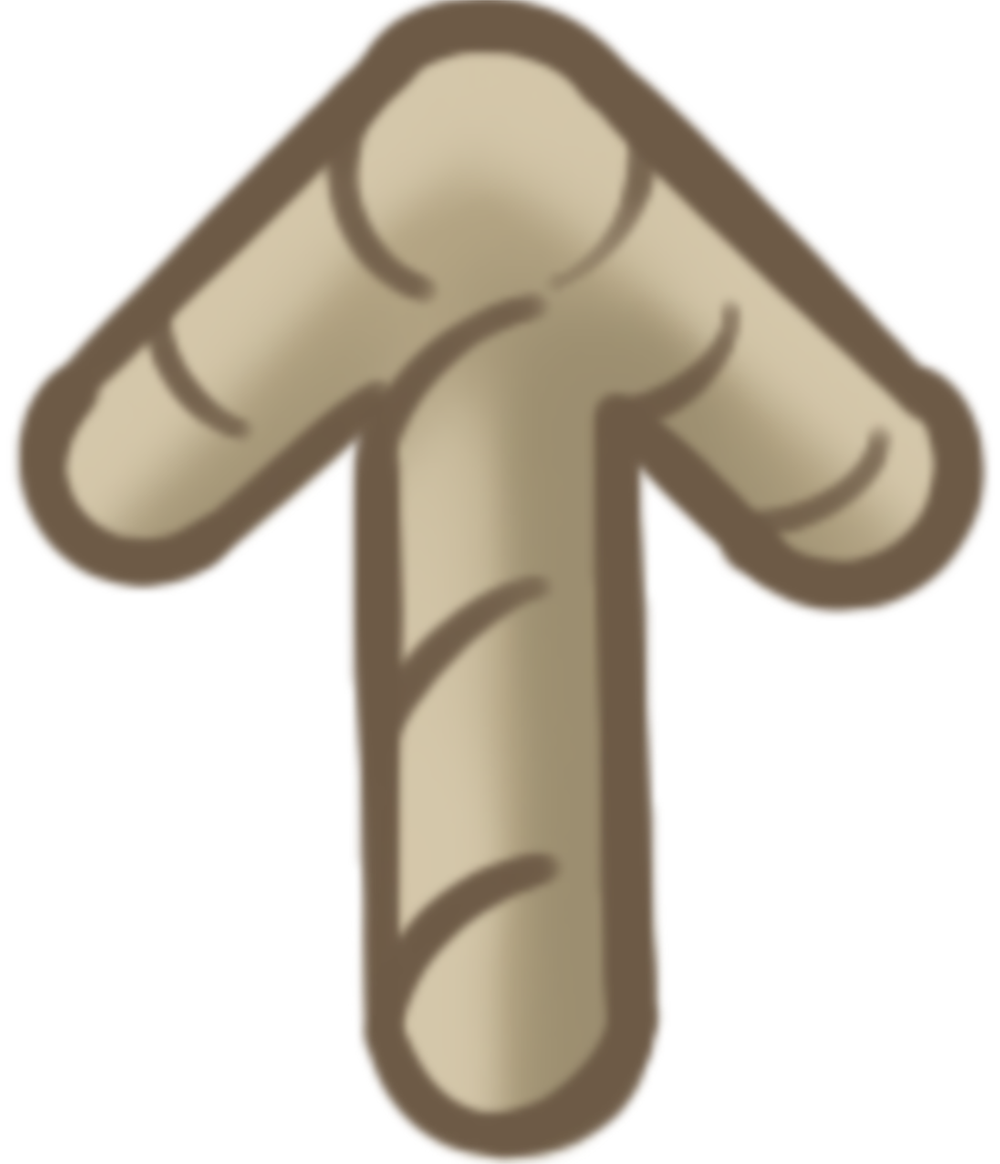
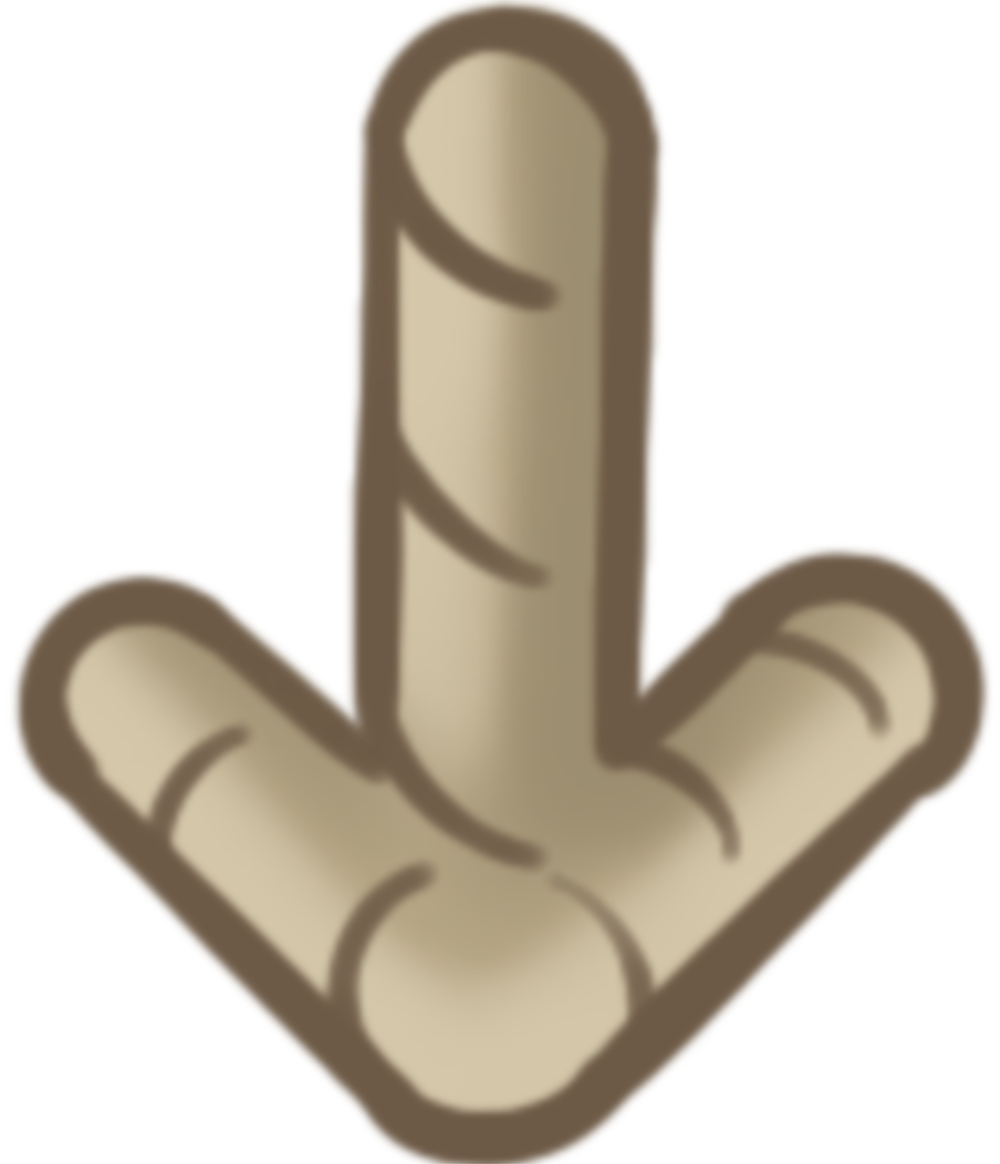
Toggle animation

diff --git a/Assets/Scripts/ArrowAnimation.cs b/Assets/Scripts/ArrowAnimation.cs
@@ -1,0 +1,43 @@
+using System.Collections;
+using System.Collections.Generic;
+using UnityEngine;
+using UnityEngine.UI;
+using DG.Tweening;
+using DanielLochner.Assets.SimpleSideMenu;
+using System.Net;
+
+public class ArrowAnimation : MonoBehaviour
+{
+    public Button arrow;
+    public bool directionUp = true;
+
+    [Space]
+    [Header("Arrow button rotation")]
+    [SerializeField] float rotationDuration;
+    [SerializeField] Ease rotationEase;
+
+    void Start()
+    {
+        Button btn = arrow.GetComponent<Button>();
+    }
+
+    public void SwitchRotation()
+    {
+        directionUp = !directionUp;
+
+        if (directionUp)
+        {
+            arrow.transform
+               .DORotate(Vector3.forward * 180f, rotationDuration)
+               .From(Vector3.forward)
+               .SetEase(rotationEase);
+        }
+        else
+        {
+            arrow.transform
+                .DORotate(Vector3.zero, rotationDuration)
+                .From(Vector3.forward * 180f)
+                .SetEase(rotationEase);
+        }
+    }
+}
